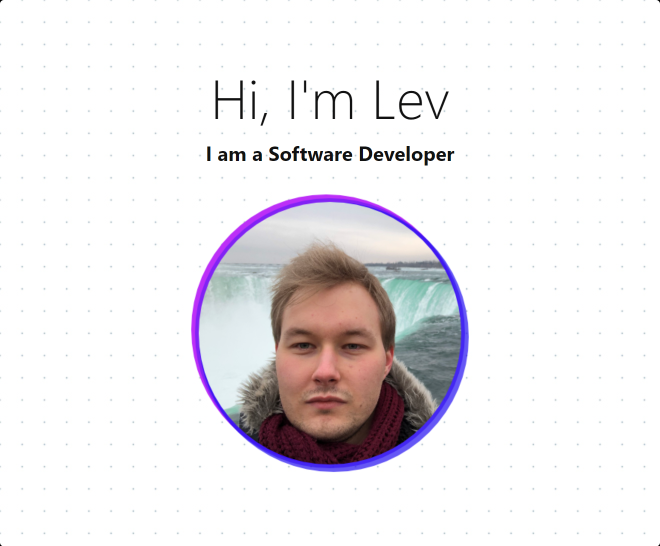
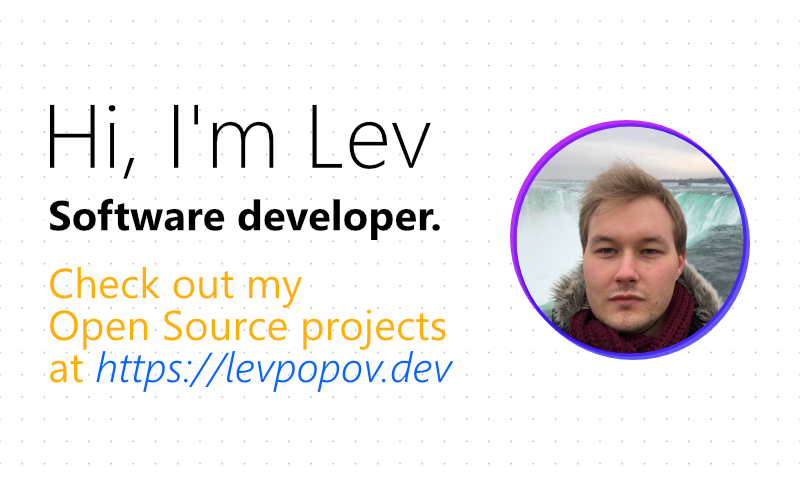
Adds live link to language quiz and new promo image

diff --git a/js/app.b3997c81.js b/js/app.b3997c81.js
@@ -1,0 +1,2 @@
+(function(t){function e(e){for(var s,r,o=e[0],l=e[1],c=e[2],p=0,u=[];p<o.length;p++)r=o[p],Object.prototype.hasOwnProperty.call(i,r)&&i[r]&&u.push(i[r][0]),i[r]=0;for(s in l)Object.prototype.hasOwnProperty.call(l,s)&&(t[s]=l[s]);d&&d(e);while(u.length)u.shift()();return n.push.apply(n,c||[]),a()}function a(){for(var t,e=0;e<n.length;e++){for(var a=n[e],s=!0,o=1;o<a.length;o++){var l=a[o];0!==i[l]&&(s=!1)}s&&(n.splice(e--,1),t=r(r.s=a[0]))}return t}var s={},i={app:0},n=[];function r(e){if(s[e])return s[e].exports;var a=s[e]={i:e,l:!1,exports:{}};return t[e].call(a.exports,a,a.exports,r),a.l=!0,a.exports}r.m=t,r.c=s,r.d=function(t,e,a){r.o(t,e)||Object.defineProperty(t,e,{enumerable:!0,get:a})},r.r=function(t){"undefined"!==typeof Symbol&&Symbol.toStringTag&&Object.defineProperty(t,Symbol.toStringTag,{value:"Module"}),Object.defineProperty(t,"__esModule",{value:!0})},r.t=function(t,e){if(1&e&&(t=r(t)),8&e)return t;if(4&e&&"object"===typeof t&&t&&t.__esModule)return t;var a=Object.create(null);if(r.r(a),Object.defineProperty(a,"default",{enumerable:!0,value:t}),2&e&&"string"!=typeof t)for(var s in t)r.d(a,s,function(e){return t[e]}.bind(null,s));return a},r.n=function(t){var e=t&&t.__esModule?function(){return t["default"]}:function(){return t};return r.d(e,"a",e),e},r.o=function(t,e){return Object.prototype.hasOwnProperty.call(t,e)},r.p="/";var o=window["webpackJsonp"]=window["webpackJsonp"]||[],l=o.push.bind(o);o.push=e,o=o.slice();for(var c=0;c<o.length;c++)e(o[c]);var d=l;n.push([0,"chunk-vendors"]),a()})({0:function(t,e,a){t.exports=a("56d7")},"232d":function(t,e,a){t.exports=a.p+"img/profile-pic.461a9fc4.png"},"56d7":function(t,e,a){"use strict";a.r(e);a("e260"),a("e6cf"),a("cca6"),a("a79d");var s=a("2b0e"),i=function(){var t=this,e=t.$createElement,a=t._self._c||e;return a("div",{attrs:{id:"app"}},[a("NavbarMobile"),a("Home"),a("Footer")],1)},n=[],r=(a("159b"),function(){var t=this,e=t.$createElement;t._self._c;return t._m(0)}),o=[function(){var t=this,e=t.$createElement,s=t._self._c||e;return s("div",{staticClass:"container-fluid d-block d-md-none sticky-top",attrs:{id:"mobile-nav"}},[s("ul",{staticClass:"nav justify-content-between align-items-center"},[s("li",{staticClass:"nav-item"},[s("a",{staticClass:"nav-link mobile-socils-icon",attrs:{href:"https://github.com/levpopov1"}},[s("i",{staticClass:"bi-github"})])]),s("li",{staticClass:"nav-item"},[s("a",{staticClass:"nav-link mobile-socils-icon",attrs:{href:"https://twitter.com/levpopov_dev"}},[s("i",{staticClass:"bi-twitter"})])]),s("li",{staticClass:"nav-item"},[s("a",{staticClass:"nav-link",attrs:{href:"#home"}},[s("img",{attrs:{src:a("9b19"),width:"40",height:"40"}})])]),s("li",{staticClass:"nav-item"},[s("a",{staticClass:"nav-link mobile-socils-icon",attrs:{href:"https://www.linkedin.com/in/lev-popov/"}},[s("i",{staticClass:"bi-linkedin"})])]),s("li",{staticClass:"nav-item"},[s("a",{staticClass:"nav-link mobile-socils-icon",attrs:{href:"mailto:hello@levpopov.dev"}},[s("i",{staticClass:"bi-envelope"})])])])])}],l={name:"NavbarMobile"},c=l,d=(a("a1fa"),a("2877")),p=Object(d["a"])(c,r,o,!1,null,"724fa826",null),u=p.exports,h=function(){var t=this,e=t.$createElement;t._self._c;return t._m(0)},f=[function(){var t=this,e=t.$createElement,a=t._self._c||e;return a("div",{staticClass:"container-fluid d-block d-md-none"},[a("div",{staticClass:"row"},[a("div",{staticClass:"col-sm-12"},[a("p",{staticClass:"text-muted font-monospace text-center py-5"},[t._v(" Designed and developed by Lev Popov. 2021 ")])])])])}],v={name:"Footer"},m=v,b=Object(d["a"])(m,h,f,!1,null,null,null),g=b.exports,C=function(){var t=this,e=t.$createElement,a=t._self._c||e;return a("div",{attrs:{id:"home"}},[a("div",{staticClass:"container-fluid"},[a("div",{staticClass:"row"},[a("Sidebar"),t._m(0)],1)])])},w=[function(){var t=this,e=t.$createElement,s=t._self._c||e;return s("div",{staticClass:"col-sm-12",attrs:{id:"main-content"}},[s("div",{staticClass:"row justify-content-center justify-content-lg-start"},[s("div",{staticClass:"col-sm-12 col-md-10 col-lg-12 mb-3 mt-3"},[s("div",{staticClass:"card title-card",attrs:{id:"aboutMe"}},[s("div",{staticClass:"card-body p-3 p-md-5 w-lg-50"},[s("div",{staticClass:"panel-upper p-3 text-center text-lg-start"},[s("h1",{staticClass:"display-2"},[t._v("Hi, I'm Lev")]),s("p",{staticClass:"lead fw-bold typewriter mb-0",attrs:{"data-period":"2000","data-type":'["Software Developer.", "keyboard enthusiast.", "playing card collector.", "tech nerd."]'}},[s("span",{staticClass:"stay"},[t._v("I am a Software Developer.")]),s("span",{staticClass:"wrap"})])]),s("div",{staticClass:"panel-center text-center d-block d-lg-none"},[s("img",{attrs:{src:a("232d"),alt:"Me",id:"profile-img"}})]),s("div",{staticClass:"panel-lower d-grid p-3 d-lg-none"},[s("a",{staticClass:"text-warning text-center text-decoration-none fw-bold",attrs:{href:"#projects"}},[t._v(" My Projects"),s("br"),s("i",{staticClass:"bi-arrow-down-short display-2"})])])])])])]),s("div",{staticClass:"row justify-content-center justify-content-lg-start",attrs:{id:"projects"}},[s("div",{staticClass:"col-sm-12 col-md-10 col-lg-6 col-xxl-4 mb-3"},[s("div",{staticClass:"gradient-border-pink h-100"},[s("div",{staticClass:"card project-card h-100",attrs:{id:"languageQuiz"}},[s("div",{staticClass:"card-body p-3 p-md-5 d-flex flex-column justify-content-between card-bg-pink"},[s("div",{staticClass:"panel-upper p-3"},[s("h1",{staticClass:"display-2"},[t._v("Language Quiz")]),s("p",{staticClass:"lead"},[t._v("Learn Hiragana, Katakana and Hangul alphabets in a Japanese and Korean language quiz.")]),s("p",{staticClass:"card-text"},[t._v(" I have been interested in learning Japanese for a long time. A daunting endevour given the complexity of the language, with its three alphabets, complex honorifics and phonetic pronounciation. ")]),s("p",{staticClass:"card-text"},[t._v(" I decided to start small and learn the alphabet first, focusing on being able to read Hiragana and Katakana. To help me with this, I built this flashcard style quiz in hopes of making the symbol memorization process easier. ")]),s("p",{staticClass:"card-text"},[t._v(" This project was also a good candidate for me to try VueJs for the first time, as I thought it would be a great fit for this type of interactive app. ")]),s("p",{staticClass:"card-text"},[t._v(" The app was built with a VueJs frontend and NodeJS backend to support additional features in the future. These will include user accounts, personal progress tracking, scoreboards and more. ")]),s("p",{staticClass:"card-text"},[s("a",{staticClass:"card-link link-light",attrs:{href:"https://github.com/levpopov1/language-quiz",target:"_blank",rel:"noreferrer"}},[s("i",{staticClass:"bi bi-github gh-source"}),s("span",[t._v("View project on Github")])])])]),s("div",{staticClass:"panel-lower d-grid p-3"},[s("a",{staticClass:"btn btn-light",attrs:{href:"https://www.logograms.fyi/",target:"_blank"}},[t._v("Live Demo")])])])])])]),s("div",{staticClass:"col-sm-12 col-md-10 col-lg-6 col-xxl-4 mb-3"},[s("div",{staticClass:"gradient-border-purple h-100"},[s("div",{staticClass:"card project-card h-100",attrs:{id:"esotericCards"}},[s("div",{staticClass:"card-body p-3 p-md-5 d-flex flex-column justify-content-between card-bg-purple"},[s("div",{staticClass:"panel-upper p-3"},[s("h1",{staticClass:"display-2"},[t._v("Esoteric Cards")]),s("p",{staticClass:"lead"},[t._v("The biggest encyclopedia of playing cards on the internet.")]),s("p",{staticClass:"card-text"},[t._v(" A few years ago I found a new hobby - collecting custom decks of playing cards. ")]),s("p",{staticClass:"card-text"},[t._v(" It all started when I saw a cardistry video on Youtube and noticed they used a non-standard deck of playing cards which was very beautifully designed. Naturall, I bought a few decks that I particularly liked, and very soon my collection had grown to over 30. ")]),s("p",{staticClass:"card-text"},[t._v(" Given that I could never afford to buy every deck of custom playing cards in existance I set out to build a web app that would serve as an encyclopedia to showcase evey card in its full, high resolution glory. ")]),s("p",{staticClass:"card-text"},[t._v(" The projects frontend is a VueJS app which communicates with an API I built using NodeJS and MongoDB allowing me to scale up the project in the future. ")]),s("p",{staticClass:"card-text"},[t._v(" At this stage, the project is still in early development but my goal is to one day make it the go-to place for all playing card enthusiasts looking to pick up a fresh new deck. ")]),s("p",{staticClass:"card-text"},[s("a",{staticClass:"card-link link-light",attrs:{href:"https://github.com/levpopov1/esoteric-cards",target:"_blank",rel:"noreferrer"}},[s("i",{staticClass:"bi bi-github gh-source"}),s("span",[t._v("View project on Github")])])])]),s("div",{staticClass:"panel-lower d-grid p-3"},[s("a",{staticClass:"btn btn-outline-light disabled",attrs:{href:"#",target:"_blank"}},[t._v("Live demo coming soon")])])])])])]),s("div",{staticClass:"col-sm-12 col-md-10 col-lg-6 col-xxl-4 mb-3"},[s("div",{staticClass:"gradient-border-blue h-100"},[s("div",{staticClass:"card project-card h-100",attrs:{id:"inspiredThemes"}},[s("div",{staticClass:"card-body p-3 p-md-5 d-flex flex-column justify-content-between card-bg-blue"},[s("div",{staticClass:"panel-upper p-3"},[s("h1",{staticClass:"display-2"},[t._v("Inspired Themes")]),s("p",{staticClass:"lead"},[t._v("Generate UI color themes from inspiring artworks.")]),s("p",{staticClass:"card-text"},[t._v(" When starting work on a new project I like to create mood boards of artworks I find inspiring, using that inspiration as the basis for designing my project. ")]),s("p",{staticClass:"card-text"},[t._v(" As someone who follows a lot of artists on Twitter, I often stumble across all kinds of artworks from up-and-coming artists and well known creators. Seeing these, I am often inspired to create something of my own. ")]),s("p",{staticClass:"card-text"},[t._v(" That's how I came up with the idea to build this project. It allows users to auto-generate themes from their favourite artworks. ")]),s("p",{staticClass:"card-text"},[t._v(" This project was built as a VueJs app using the latest ES6 language syntax. I made use of the public Twitter API to fetch artworks and implemented local file upload to complete the functionality, demonstrating skills in file handling and image manipulation. ")]),s("p",{staticClass:"card-text"},[s("a",{staticClass:"card-link link-light",attrs:{href:"https://github.com/levpopov1/inspired-themes",target:"_blank",rel:"noreferrer"}},[s("i",{staticClass:"bi bi-github gh-source"}),s("span",[t._v("View project on Github")])])])]),s("div",{staticClass:"panel-lower d-grid p-3"},[s("a",{staticClass:"btn btn-outline-light disabled",attrs:{href:"#",target:"_blank"}},[t._v("Live demo coming soon")])])])])])])])])}],y=function(){var t=this,e=t.$createElement;t._self._c;return t._m(0)},k=[function(){var t=this,e=t.$createElement,s=t._self._c||e;return s("div",[s("div",{staticClass:"sidebar d-none d-md-flex flex-column align-items-center justify-content-between my-3 fixed-top"},[s("ul",{staticClass:"nav flex-column text-center"},[s("li",{staticClass:"nav-item"},[s("a",{staticClass:"nav-link",attrs:{href:"#home",id:"home-link"}},[s("img",{attrs:{src:a("9b19"),width:"40",height:"40"}})])])]),s("ul",{staticClass:"nav flex-column text-center"},[s("li",{staticClass:"nav-item"},[s("a",{staticClass:"nav-link sidebar-icon",attrs:{href:"https://www.linkedin.com/in/lev-popov/"}},[s("i",{staticClass:"bi-linkedin"})])]),s("li",{staticClass:"nav-item"},[s("a",{staticClass:"nav-link sidebar-icon",attrs:{href:"https://github.com/levpopov1"}},[s("i",{staticClass:"bi-github"})])]),s("li",{staticClass:"nav-item"},[s("a",{staticClass:"nav-link sidebar-icon",attrs:{href:"https://twitter.com/levpopov_dev"}},[s("i",{staticClass:"bi-twitter"})])]),s("li",{staticClass:"nav-item"},[s("a",{staticClass:"nav-link sidebar-icon",attrs:{href:"https://stackshare.io/levpopov1/my-current-stack"}},[s("i",{staticClass:"bi-stack"})])]),s("li",{staticClass:"nav-item"},[s("a",{staticClass:"nav-link sidebar-icon",attrs:{href:"mailto:hello@levpopov.dev"}},[s("i",{staticClass:"bi-envelope"})])])])])])}],x={name:"Sidebar"},_=x,j=(a("fba4"),Object(d["a"])(_,y,k,!1,null,"42a26c76",null)),I=j.exports,T={name:"Home",components:{Sidebar:I},mounted:function(){var t=function(t,e,a){this.toRotate=e,this.el=t,this.loopNum=0,this.period=parseInt(a,10)||2e3,this.txt="",this.tick(),this.isDeleting=!1};t.prototype.tick=function(){var t=this.loopNum%this.toRotate.length,e=this.toRotate[t];this.isDeleting?this.txt=e.substring(0,this.txt.length-1):this.txt=e.substring(0,this.txt.length+1),this.el.innerHTML='<span class="stay">I am a </span><span class="wrap">'+this.txt+"</span>";var a=this,s=200-100*Math.random();this.isDeleting&&(s/=2),this.isDeleting||this.txt!==e?this.isDeleting&&""===this.txt&&(this.isDeleting=!1,this.loopNum++,s=500):(s=this.period,this.isDeleting=!0),setTimeout((function(){a.tick()}),s)};for(var e=document.getElementsByClassName("typewriter"),a=0;a<e.length;a++){var s=e[a].getAttribute("data-type"),i=e[a].getAttribute("data-period");s&&new t(e[a],JSON.parse(s),i)}var n=document.createElement("style");n.type="text/css",n.innerHTML=".typewriter > .wrap { border-right: 0.08em solid #000}",document.body.appendChild(n)}},S=T,O=(a("9730"),Object(d["a"])(S,C,w,!1,null,"319d9022",null)),E=O.exports,M={name:"App",components:{NavbarMobile:u,Home:E,Footer:g},mounted:function(){function t(t){t.preventDefault();var e=this.getAttribute("href"),a=56,s="#home"==e?0:document.querySelector(e).offsetTop-a;window.scrollTo({behavior:"smooth",top:s})}var e=document.querySelectorAll('a[href*="#"]');e.forEach((function(e){return e.addEventListener("click",t)}))}},D=M,A=(a("5c0b"),Object(d["a"])(D,i,n,!1,null,null,null)),J=A.exports,N=(a("0deb"),a("7707")),P=a.n(N);P.a.polyfill(),s["a"].config.productionTip=!1,new s["a"]({render:function(t){return t(J)}}).$mount("#app")},"5c0b":function(t,e,a){"use strict";a("9c0c")},6195:function(t,e,a){},9730:function(t,e,a){"use strict";a("d785")},"9b19":function(t,e,a){t.exports=a.p+"img/logo.7201733d.svg"},"9c0c":function(t,e,a){},a1fa:function(t,e,a){"use strict";a("6195")},d785:function(t,e,a){},fb91:function(t,e,a){},fba4:function(t,e,a){"use strict";a("fb91")}});
+//# sourceMappingURL=app.b3997c81.js.map

diff --git a/css/app.e89987b5.css b/css/app.e89987b5.css
@@ -1,4 +1,4 @@
-#mobile-nav[data-v-724fa826]{background-color:#000}.mobile-socils-icon[data-v-724fa826]{font-size:20px;color:#fff}.mobile-socils-icon[data-v-724fa826] :active,.mobile-socils-icon[data-v-724fa826]:hover{color:var(--bs-primary)}i[data-v-724fa826]{line-height:1;align-self:center;vertical-align:text-top}.sidebar[data-v-42a26c76]{height:calc(100vh - 2rem);border-radius:.25rem;background-color:#111}.sidebar-icon[data-v-42a26c76]{font-size:1.5rem;margin-bottom:10px;color:#fff}.sidebar-icon[data-v-42a26c76] :active,.sidebar-icon[data-v-42a26c76]:hover{color:var(--bs-primary)}#home-link[data-v-42a26c76]{margin-top:10px}.fixed-top[data-v-42a26c76]{left:unset;right:unset}.fixed-bottom[data-v-42a26c76]{left:unset;right:unset;bottom:1rem}.card[data-v-098667ab]{border:none;color:#111}.project-card[data-v-098667ab]{min-height:calc(80vh - 1rem - 2px);background:#000;color:#fff}.title-card[data-v-098667ab]{min-height:calc(20vh - 2rem);background:url(../img/dot-grid.5a69c256.png)}.gradient-border-pink[data-v-098667ab]{background:linear-gradient(90deg,#bb2ff7,#9026f5);padding:1px;border-radius:.25rem}.gradient-border-purple[data-v-098667ab]{background:linear-gradient(90deg,#8524f5,#591af3);padding:1px;border-radius:.25rem}.gradient-border-blue[data-v-098667ab]{background:linear-gradient(90deg,#5019f3,#230ff1);padding:1px;border-radius:.25rem}.card-bg-pink[data-v-098667ab]{background:url(../img/waves-big.c3ec583d.png) 0 no-repeat;background-size:cover}.card-bg-purple[data-v-098667ab]{background:url(../img/waves-big.c3ec583d.png) 50% no-repeat;background-size:cover}.card-bg-blue[data-v-098667ab]{background:url(../img/waves-big.c3ec583d.png) 100% no-repeat;background-size:cover}.gh-source[data-v-098667ab]{font-size:1.5rem;margin:0 1rem 0 0}#profile-img[data-v-098667ab]{width:100%;max-height:300px;max-width:300px}@media(min-width:768px){#main-content[data-v-098667ab]{padding-left:96px}}@media(min-width:992px){.w-lg-50[data-v-098667ab]{width:50%}}@media(min-width:768px)and (max-width:992px){.card[data-v-098667ab]{min-height:calc(60vh - 25px)}}
+#mobile-nav[data-v-724fa826]{background-color:#000}.mobile-socils-icon[data-v-724fa826]{font-size:20px;color:#fff}.mobile-socils-icon[data-v-724fa826] :active,.mobile-socils-icon[data-v-724fa826]:hover{color:var(--bs-primary)}i[data-v-724fa826]{line-height:1;align-self:center;vertical-align:text-top}.sidebar[data-v-42a26c76]{height:calc(100vh - 2rem);border-radius:.25rem;background-color:#111}.sidebar-icon[data-v-42a26c76]{font-size:1.5rem;margin-bottom:10px;color:#fff}.sidebar-icon[data-v-42a26c76] :active,.sidebar-icon[data-v-42a26c76]:hover{color:var(--bs-primary)}#home-link[data-v-42a26c76]{margin-top:10px}.fixed-top[data-v-42a26c76]{left:unset;right:unset}.fixed-bottom[data-v-42a26c76]{left:unset;right:unset;bottom:1rem}.card[data-v-319d9022]{border:none;color:#111}.project-card[data-v-319d9022]{min-height:calc(80vh - 1rem - 2px);background:#000;color:#fff}.title-card[data-v-319d9022]{min-height:calc(20vh - 2rem);background:url(../img/dot-grid.5a69c256.png)}.gradient-border-pink[data-v-319d9022]{background:linear-gradient(90deg,#bb2ff7,#9026f5);padding:1px;border-radius:.25rem}.gradient-border-purple[data-v-319d9022]{background:linear-gradient(90deg,#8524f5,#591af3);padding:1px;border-radius:.25rem}.gradient-border-blue[data-v-319d9022]{background:linear-gradient(90deg,#5019f3,#230ff1);padding:1px;border-radius:.25rem}.card-bg-pink[data-v-319d9022]{background:url(../img/waves-big.c3ec583d.png) 0 no-repeat;background-size:cover}.card-bg-purple[data-v-319d9022]{background:url(../img/waves-big.c3ec583d.png) 50% no-repeat;background-size:cover}.card-bg-blue[data-v-319d9022]{background:url(../img/waves-big.c3ec583d.png) 100% no-repeat;background-size:cover}.gh-source[data-v-319d9022]{font-size:1.5rem;margin:0 1rem 0 0}#profile-img[data-v-319d9022]{width:100%;max-height:300px;max-width:300px}@media(min-width:768px){#main-content[data-v-319d9022]{padding-left:96px}}@media(min-width:992px){.w-lg-50[data-v-319d9022]{width:50%}}@media(min-width:768px)and (max-width:992px){.card[data-v-319d9022]{min-height:calc(60vh - 25px)}}
 /*!
  * Bootstrap v5.0.0-beta2 (https://getbootstrap.com/)
  * Copyright 2011-2021 The Bootstrap Authors

diff --git a/index.html b/index.html
@@ -1,1 +1,1 @@
-<!DOCTYPE html><html lang="en" prefix="og: https://ogp.me/ns#"><head><meta charset="utf-8"><meta http-equiv="X-UA-Compatible" content="IE=edge"><meta name="viewport" content="width=device-width,initial-scale=1"><link rel="icon" type="image/png" href="/favicon.png"><title>Portfolio - Lev Popov</title><meta name="description" content="Software Developer, mechanical keyboard enthusiast, tech nerd. This is my portfolio."><meta name="keywords" content="Lev Popov, software developer, portfolio, programming, javascript"><meta name="author" content="Lev Popov"><meta name="robots" content="index,follow"><meta name="twitter:image:src" content="https://levpopov.dev/img/promo.png"><meta name="twitter:card" content="summary_large_image"><meta name="twitter:title" content="Portfolio - Lev Popov"><meta name="twitter:site" content="@levpopov_dev"><meta name="twitter:description" content="Software Developer, mechanical keyboard enthusiast, tech nerd. This is my portfolio."><meta property="og:title" content="Portfolio - Lev Popov"><meta property="og:type" content="website"><meta property="og:description" content="Software Developer, mechanical keyboard enthusiast, tech nerd. This is my portfolio."><meta property="og:url" content="https://levpopov.dev"><meta property="og:image" content="https://levpopov.dev/img/promo.png"><meta property="og:image:type" content="image/png"><meta property="og:locale" content="en_GB"><link href="/css/app.19a8d85b.css" rel="preload" as="style"><link href="/css/chunk-vendors.ee03506f.css" rel="preload" as="style"><link href="/js/app.1f73364b.js" rel="preload" as="script"><link href="/js/chunk-vendors.984203f7.js" rel="preload" as="script"><link href="/css/chunk-vendors.ee03506f.css" rel="stylesheet"><link href="/css/app.19a8d85b.css" rel="stylesheet"></head><body><noscript><strong>We're sorry but portfolio doesn't work properly without JavaScript enabled. Please enable it to continue.</strong></noscript><div id="app"></div><script src="/js/chunk-vendors.984203f7.js"></script><script src="/js/app.1f73364b.js"></script></body></html>
+<!DOCTYPE html><html lang="en" prefix="og: https://ogp.me/ns#"><head><meta charset="utf-8"><meta http-equiv="X-UA-Compatible" content="IE=edge"><meta name="viewport" content="width=device-width,initial-scale=1"><link rel="icon" type="image/png" href="/favicon.png"><title>Portfolio - Lev Popov</title><meta name="description" content="Software Developer, mechanical keyboard enthusiast, tech nerd. This is my portfolio."><meta name="keywords" content="Lev Popov, software developer, portfolio, programming, javascript"><meta name="author" content="Lev Popov"><meta name="robots" content="index,follow"><meta name="twitter:image:src" content="https://levpopov.dev/img/promo.png"><meta name="twitter:card" content="summary_large_image"><meta name="twitter:title" content="Portfolio - Lev Popov"><meta name="twitter:site" content="@levpopov_dev"><meta name="twitter:description" content="Software Developer, mechanical keyboard enthusiast, tech nerd. This is my portfolio."><meta property="og:title" content="Portfolio - Lev Popov"><meta property="og:type" content="website"><meta property="og:description" content="Software Developer, mechanical keyboard enthusiast, tech nerd. This is my portfolio."><meta property="og:url" content="https://levpopov.dev"><meta property="og:image" content="https://levpopov.dev/img/promo.png"><meta property="og:image:type" content="image/png"><meta property="og:locale" content="en_GB"><link href="/css/app.e89987b5.css" rel="preload" as="style"><link href="/css/chunk-vendors.ee03506f.css" rel="preload" as="style"><link href="/js/app.b3997c81.js" rel="preload" as="script"><link href="/js/chunk-vendors.984203f7.js" rel="preload" as="script"><link href="/css/chunk-vendors.ee03506f.css" rel="stylesheet"><link href="/css/app.e89987b5.css" rel="stylesheet"></head><body><noscript><strong>We're sorry but portfolio doesn't work properly without JavaScript enabled. Please enable it to continue.</strong></noscript><div id="app"></div><script src="/js/chunk-vendors.984203f7.js"></script><script src="/js/app.b3997c81.js"></script></body></html>
